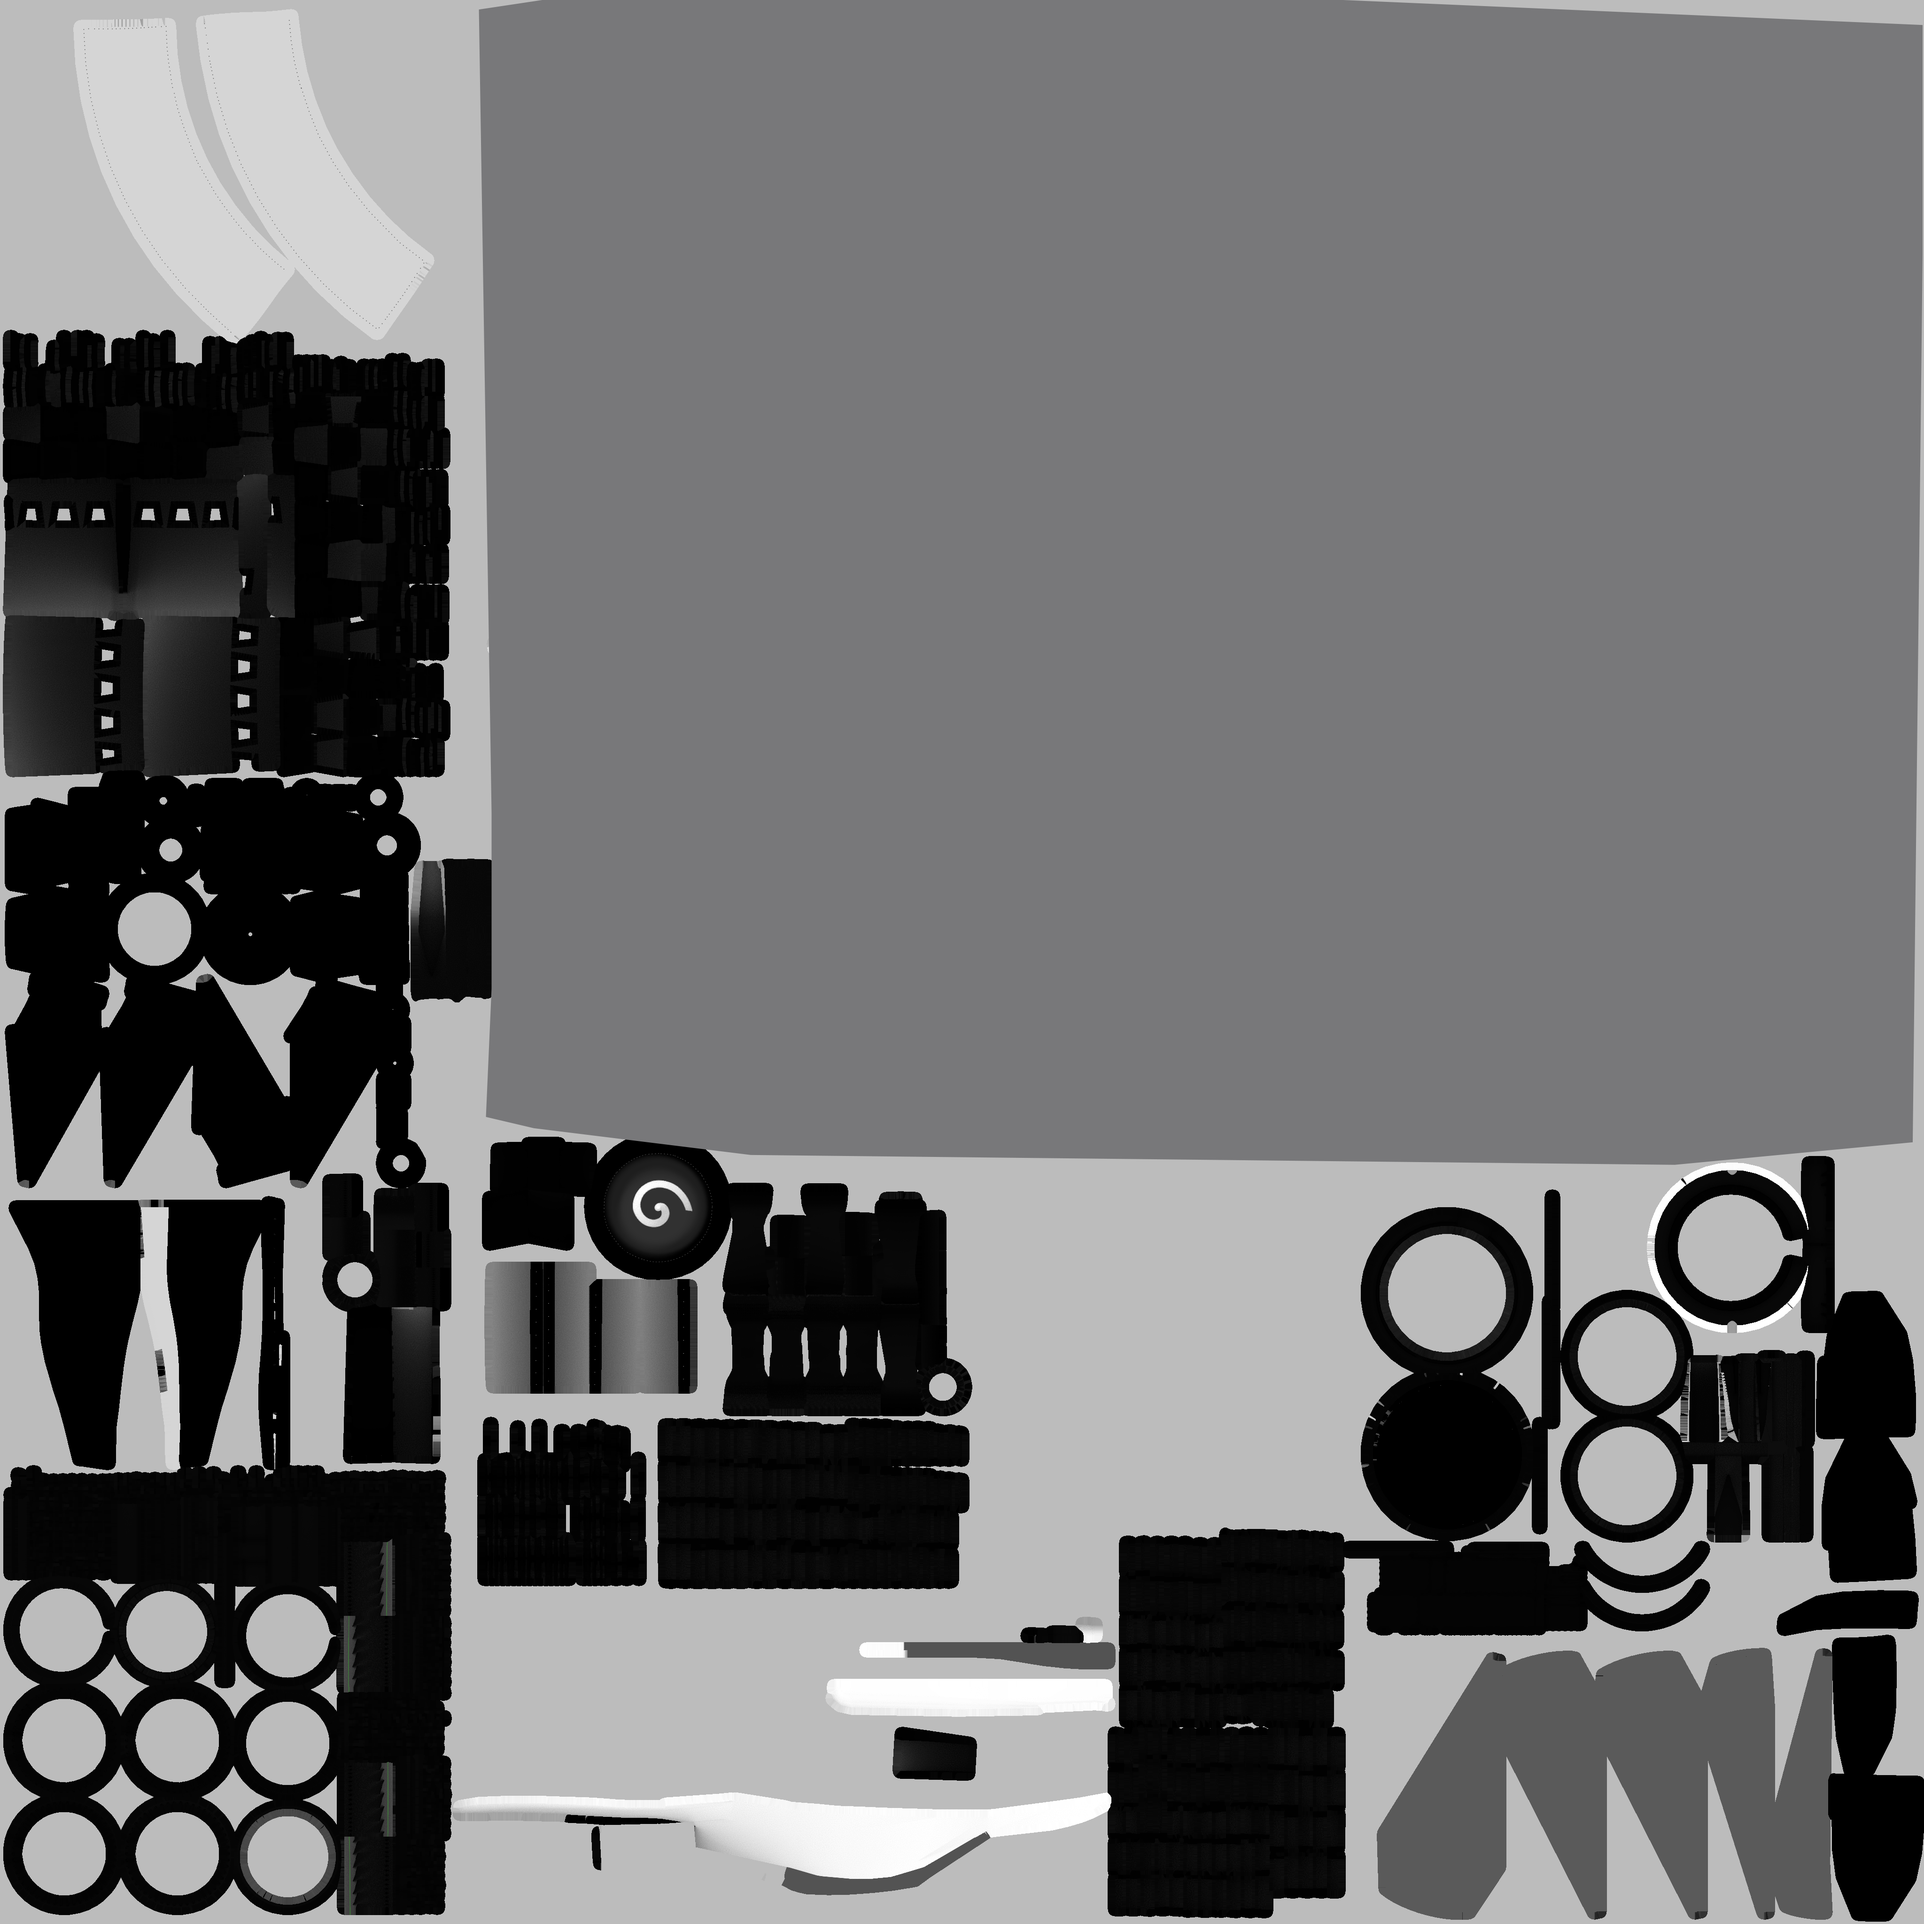
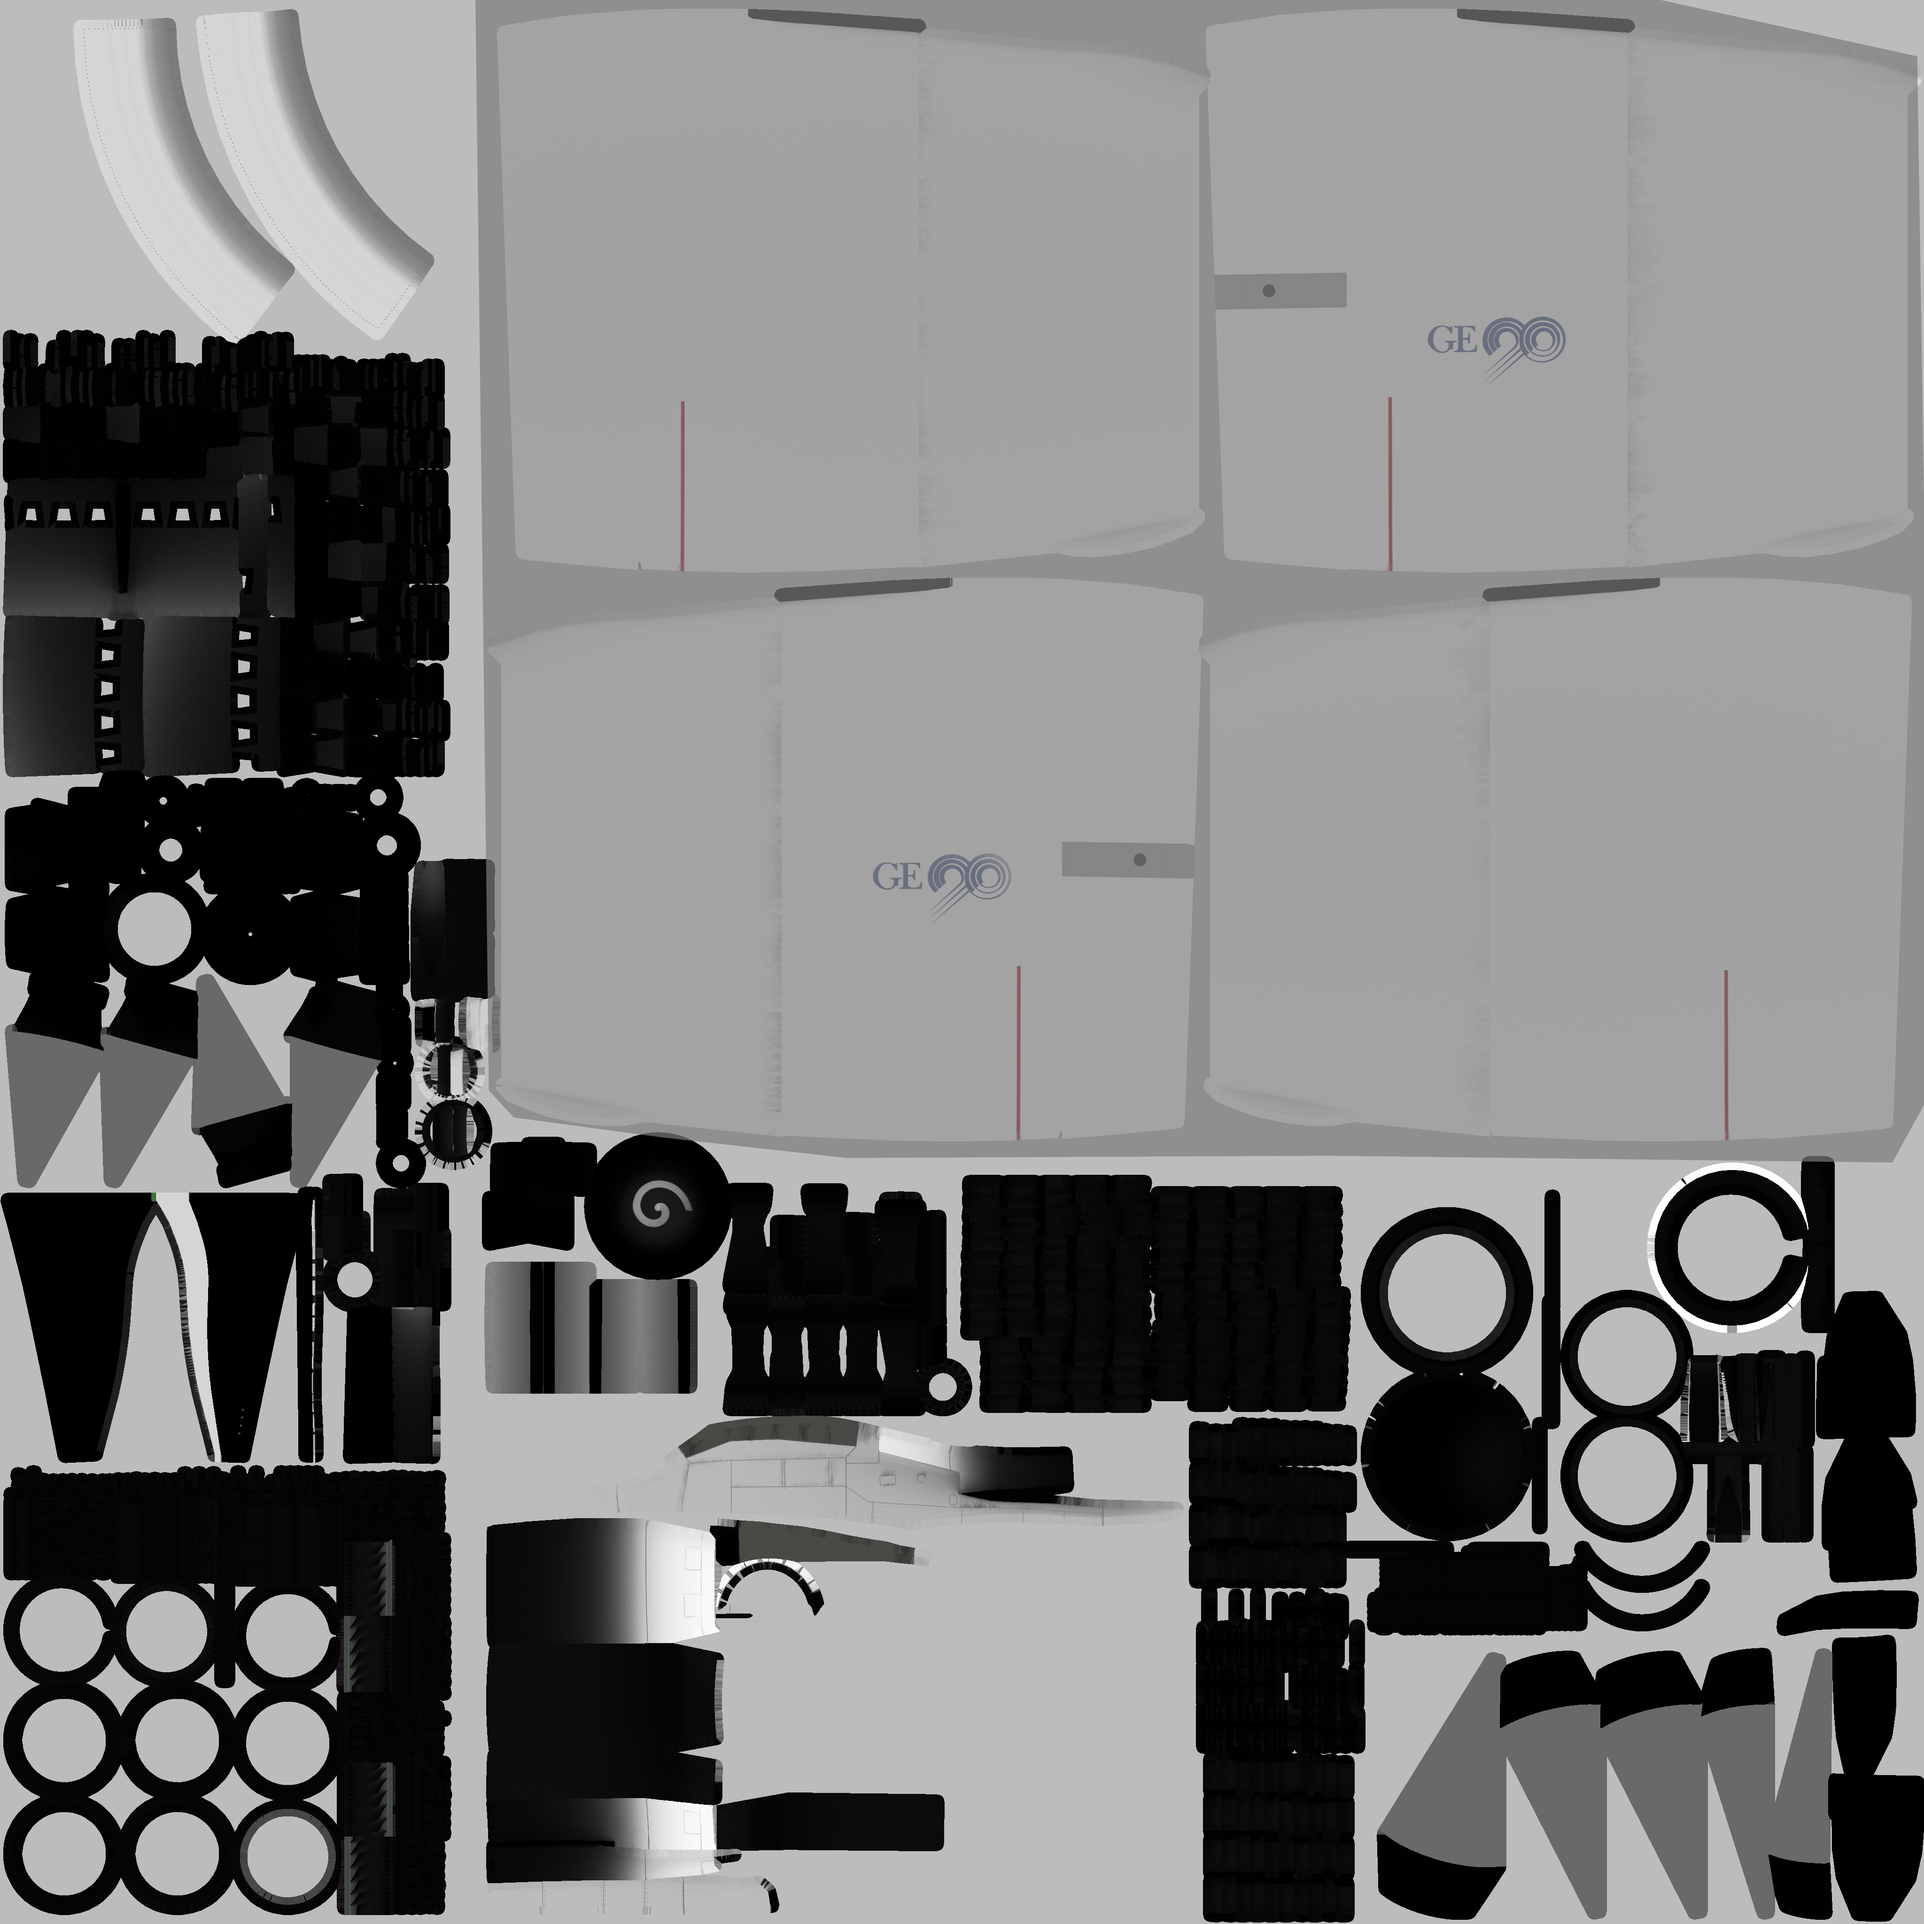
new liveries thanks to A.joshua

diff --git a/README.md b/README.md
@@ -83,7 +83,7 @@ Phil Paysse: Fuselage and wings.
 
 **Liveries:**
 
-A.joshua - Air India (Star Alliance) VT-ALJ, ANA JA792A, Korean Air HL8007, Swiss Air HB-JNB
+A.joshua - Air India (Star Alliance) VT-ALJ, ANA JA792A, Korean Air HL8007, Swiss Air HB-JNB, Cathay Pacific B-KPM
 
 CptTrxpic - Japan Airlines JA731A
 
